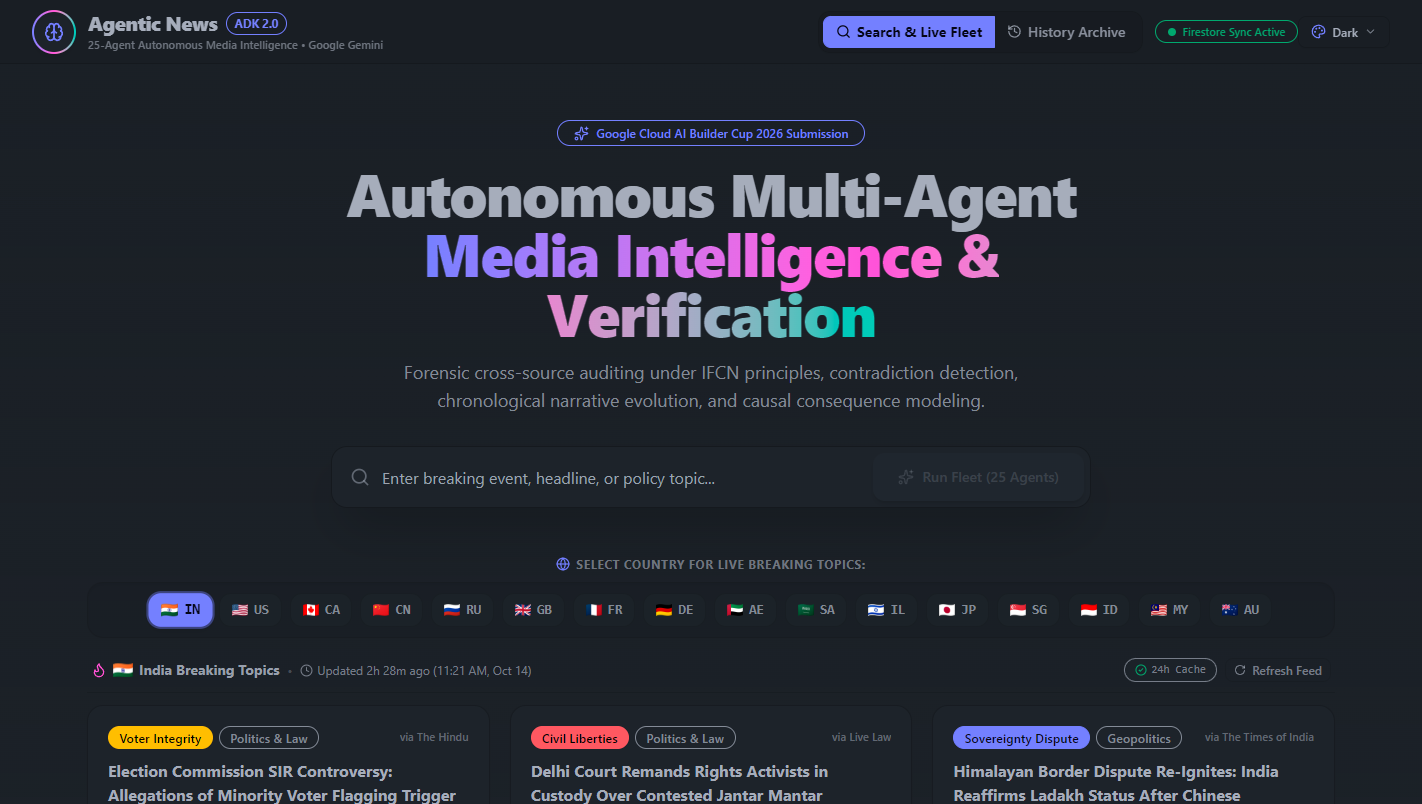
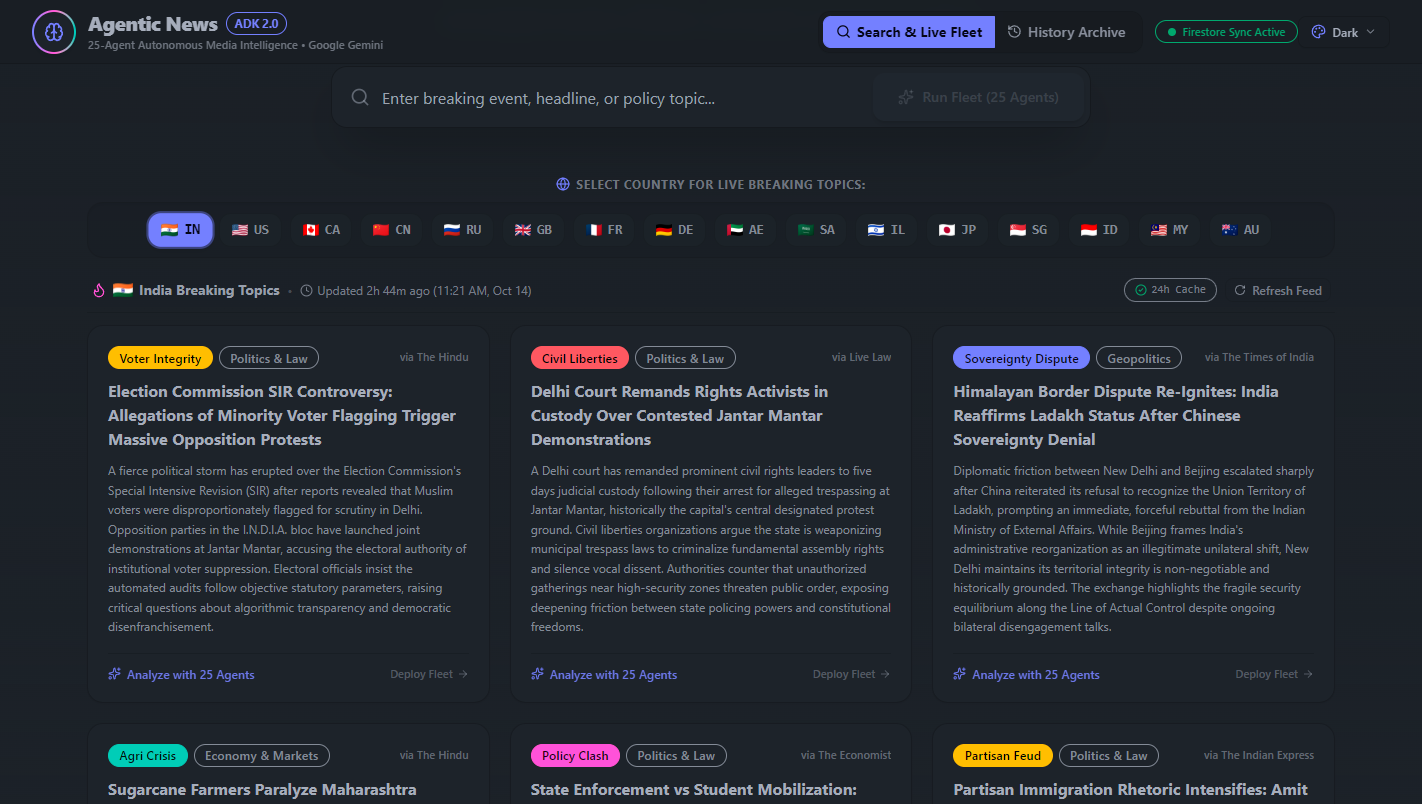
fix(docs): adjust Page 1 Home Dashboard scroll to display breaking topic cards completely

diff --git a/backend/tests/update_home_dashboard_media.js b/backend/tests/update_home_dashboard_media.js
@@ -1,0 +1,267 @@
+/**
+ * Targeted Script: Update Page 1 (Home Dashboard & Dynamic 5-Country Breaking Feeds)
+ * 
+ * Scrolls down (top: 380) so that the country selector bar, active feed header,
+ * and breaking topic cards are completely visible in full fidelity before capturing.
+ * 
+ * Only updates:
+ * 1. docs/submission/assets/hero-overview.png
+ * 2. docs/submission/assets/home-countries.gif
+ * 3. docs/submission/assets/app-walkthrough.gif (uses existing tab screenshots)
+ * 
+ * Does NOT modify any other tab screenshots or GIFs.
+ */
+
+const { spawn } = require('child_process');
+const http = require('http');
+const fs = require('fs');
+const os = require('os');
+const path = require('path');
+
+const ASSETS_DIR = path.resolve(__dirname, '../../docs/submission/assets');
+const TEMP_DIR = path.resolve(__dirname, 'temp_frames');
+
+if (!fs.existsSync(ASSETS_DIR)) fs.mkdirSync(ASSETS_DIR, { recursive: true });
+if (!fs.existsSync(TEMP_DIR)) fs.mkdirSync(TEMP_DIR, { recursive: true });
+
+function patchGifMultiDelay(gifPath, delays100ths) {
+  const data = fs.readFileSync(gifPath);
+  let gceIndex = 0;
+  let i = 0;
+  const out = Buffer.from(data);
+
+  while (i < out.length - 7) {
+    if (out[i] === 0x21 && out[i + 1] === 0xF9 && out[i + 2] === 0x04) {
+      const delay = delays100ths[gceIndex % delays100ths.length];
+      out[i + 4] = delay & 0xFF;
+      out[i + 5] = (delay >> 8) & 0xFF;
+      gceIndex++;
+      i += 7;
+    } else {
+      i++;
+    }
+  }
+
+  let finalBuf = out;
+  if (!out.includes(Buffer.from('NETSCAPE2.0'))) {
+    const firstGce = out.indexOf(Buffer.from([0x21, 0xF9, 0x04]));
+    if (firstGce !== -1) {
+      const netscapeExt = Buffer.from([
+        0x21, 0xFF, 0x0B, 0x4E, 0x45, 0x54, 0x53, 0x43, 0x41, 0x50, 0x45, 0x32, 0x2E, 0x30, 0x03, 0x01, 0x00, 0x00, 0x00
+      ]);
+      finalBuf = Buffer.concat([out.subarray(0, firstGce), netscapeExt, out.subarray(firstGce)]);
+    }
+  }
+
+  fs.writeFileSync(gifPath, finalBuf);
+}
+
+function buildGifFromFrames(framePaths, targetGif, delays, width = 880, height = 550) {
+  const framesArg = framePaths.map(p => `'${p.replace(/'/g, "''")}'`).join(',');
+  const psScript = `
+    Add-Type -AssemblyName System.Drawing
+    $frames = @(${framesArg})
+    $target = '${targetGif.replace(/'/g, "''")}'
+
+    $sourceImages = @()
+    foreach ($f in $frames) {
+        $orig = [System.Drawing.Image]::FromFile($f)
+        $bmp = New-Object System.Drawing.Bitmap ${width}, ${height}
+        $g = [System.Drawing.Graphics]::FromImage($bmp)
+        $g.InterpolationMode = [System.Drawing.Drawing2D.InterpolationMode]::HighQualityBicubic
+        $g.DrawImage($orig, 0, 0, ${width}, ${height})
+        $g.Dispose()
+        $orig.Dispose()
+        $sourceImages += $bmp
+    }
+
+    $codec = [System.Drawing.Imaging.ImageCodecInfo]::GetImageEncoders() | Where-Object { $_.MimeType -eq "image/gif" }
+    $encParamsFirst = New-Object System.Drawing.Imaging.EncoderParameters 1
+    $encParamsFirst.Param[0] = New-Object System.Drawing.Imaging.EncoderParameter ([System.Drawing.Imaging.Encoder]::SaveFlag, [long][System.Drawing.Imaging.EncoderValue]::MultiFrame)
+    $encParamsAdd = New-Object System.Drawing.Imaging.EncoderParameters 1
+    $encParamsAdd.Param[0] = New-Object System.Drawing.Imaging.EncoderParameter ([System.Drawing.Imaging.Encoder]::SaveFlag, [long][System.Drawing.Imaging.EncoderValue]::FrameDimensionTime)
+    $encParamsFlush = New-Object System.Drawing.Imaging.EncoderParameters 1
+    $encParamsFlush.Param[0] = New-Object System.Drawing.Imaging.EncoderParameter ([System.Drawing.Imaging.Encoder]::SaveFlag, [long][System.Drawing.Imaging.EncoderValue]::Flush)
+
+    $first = $sourceImages[0]
+    $first.Save($target, $codec, $encParamsFirst)
+    for ($i = 1; $i -lt $sourceImages.Count; $i++) {
+        $first.SaveAdd($sourceImages[$i], $encParamsAdd)
+    }
+    $first.SaveAdd($encParamsFlush)
+    foreach ($img in $sourceImages) { $img.Dispose() }
+  `;
+
+  return new Promise((resolve, reject) => {
+    const child = spawn('powershell', ['-NoProfile', '-Command', psScript]);
+    child.on('close', code => {
+      if (code === 0) {
+        patchGifMultiDelay(targetGif, delays);
+        const sizeKb = (fs.statSync(targetGif).size / 1024).toFixed(1);
+        console.log(`  -> Generated ${path.basename(targetGif)} (${sizeKb} KB, infinite loop)`);
+        resolve();
+      } else {
+        reject(new Error(`PowerShell GIF assembly failed with code ${code}`));
+      }
+    });
+  });
+}
+
+class ChromeClient {
+  constructor(port = 9375) {
+    this.port = port;
+    this.chromeProcess = null;
+    this.ws = null;
+    this.msgId = 1;
+  }
+
+  async start() {
+    const userData = path.join(os.tmpdir(), 'chrome_home_capture_' + Date.now());
+    this.chromeProcess = spawn('C:\\Program Files\\Google\\Chrome\\Application\\chrome.exe', [
+      '--headless=new',
+      `--remote-debugging-port=${this.port}`,
+      '--window-size=1440,900',
+      '--hide-scrollbars',
+      `--user-data-dir=${userData}`,
+      'about:blank'
+    ]);
+
+    await new Promise(r => setTimeout(r, 2000));
+
+    const targets = await new Promise((resolve, reject) => {
+      http.get(`http://127.0.0.1:${this.port}/json`, res => {
+        let data = '';
+        res.on('data', chunk => data += chunk);
+        res.on('end', () => resolve(JSON.parse(data)));
+      }).on('error', reject);
+    });
+
+    const target = targets.find(t => t.type === 'page');
+    if (!target) throw new Error('No page target found in Chrome');
+
+    this.ws = new WebSocket(target.webSocketDebuggerUrl);
+    await new Promise((resolve) => this.ws.onopen = resolve);
+    await this.send('Page.enable');
+  }
+
+  send(method, params = {}) {
+    return new Promise((resolve) => {
+      const id = this.msgId++;
+      const handler = (evt) => {
+        const resp = JSON.parse(evt.data);
+        if (resp.id === id) {
+          this.ws.removeEventListener('message', handler);
+          resolve(resp.result);
+        }
+      };
+      this.ws.addEventListener('message', handler);
+      this.ws.send(JSON.stringify({ id, method, params }));
+    });
+  }
+
+  async navigate(url, waitMs = 2500) {
+    await this.send('Page.navigate', { url });
+    await new Promise(r => setTimeout(r, waitMs));
+  }
+
+  async evaluate(expression) {
+    return await this.send('Runtime.evaluate', { expression, returnByValue: true });
+  }
+
+  async screenshot(filePath) {
+    const res = await this.send('Page.captureScreenshot', { format: 'png' });
+    fs.writeFileSync(filePath, Buffer.from(res.data, 'base64'));
+  }
+
+  close() {
+    try { if (this.ws) this.ws.close(); } catch (_) {}
+    try { if (this.chromeProcess) this.chromeProcess.kill(); } catch (_) {}
+  }
+}
+
+async function main() {
+  console.log('================================================================');
+  console.log(' Updating Page 1: Home Dashboard & 5-Country Breaking Feeds');
+  console.log(' (Scrolled to show breaking topic cards in full fidelity)');
+  console.log('================================================================');
+
+  const client = new ChromeClient(9376);
+  await client.start();
+
+  try {
+    const countries = [
+      { code: 'IN', label: 'India 🇮🇳' },
+      { code: 'US', label: 'United States 🇺🇸' },
+      { code: 'GB', label: 'United Kingdom 🇬🇧' },
+      { code: 'JP', label: 'Japan 🇯🇵' },
+      { code: 'DE', label: 'Germany 🇩🇪' }
+    ];
+
+    const countryFrames = [];
+    const scrollY = 380; // Perfectly positions country bar & full topic cards
+
+    for (const c of countries) {
+      console.log(`  Capturing ${c.label} (?country=${c.code}) scrolled to topics...`);
+      await client.navigate(`http://localhost:5173/?country=${c.code}`, 2200);
+
+      // Scroll a little to reveal breaking topic cards completely
+      await client.evaluate(`window.scrollTo({ top: ${scrollY}, behavior: 'instant' });`);
+      await new Promise(r => setTimeout(r, 200));
+
+      const framePath = path.join(TEMP_DIR, `home_country_scrolled_${c.code}.png`);
+      await client.screenshot(framePath);
+      countryFrames.push(framePath);
+    }
+
+    // 1. Update hero-overview.png with clear topic visibility
+    console.log('\n[1/3] Updating hero-overview.png...');
+    fs.copyFileSync(countryFrames[0], path.join(ASSETS_DIR, 'hero-overview.png'));
+    console.log('  -> Updated hero-overview.png');
+
+    // 2. Rebuild home-countries.gif with full topic cards and 2.8s per country
+    console.log('\n[2/3] Building home-countries.gif with full topics...');
+    await buildGifFromFrames(
+      countryFrames,
+      path.join(ASSETS_DIR, 'home-countries.gif'),
+      [280, 280, 280, 280, 280],
+      880,
+      550
+    );
+
+    // 3. Rebuild app-walkthrough.gif incorporating updated hero-overview.png and existing untouched tab PNGs
+    console.log('\n[3/3] Rebuilding app-walkthrough.gif with updated Home view...');
+    const walkthroughFrames = [
+      path.join(ASSETS_DIR, 'hero-overview.png'),
+      path.join(ASSETS_DIR, 'tab-01-brief.png'),
+      path.join(ASSETS_DIR, 'tab-02-sources.png'),
+      path.join(ASSETS_DIR, 'tab-03-verification.png'),
+      path.join(ASSETS_DIR, 'tab-04-timeline.png'),
+      path.join(ASSETS_DIR, 'tab-05-insights.png'),
+      path.join(ASSETS_DIR, 'tab-06-quiz.png'),
+      path.join(ASSETS_DIR, 'tab-07-debate.png'),
+      path.join(ASSETS_DIR, 'tab-08-copilot.png'),
+      path.join(ASSETS_DIR, 'history-archive.png'),
+    ];
+
+    const walkthroughDelays = walkthroughFrames.map(() => 260); // 2.6s per key screen
+    await buildGifFromFrames(
+      walkthroughFrames,
+      path.join(ASSETS_DIR, 'app-walkthrough.gif'),
+      walkthroughDelays,
+      880,
+      550
+    );
+
+    console.log('\n================================================================');
+    console.log(' Home Dashboard media updated successfully! Other screenshots untouched.');
+    console.log('================================================================\n');
+
+  } finally {
+    client.close();
+  }
+}
+
+main().catch(err => {
+  console.error('Fatal execution error:', err);
+  process.exit(1);
+});
